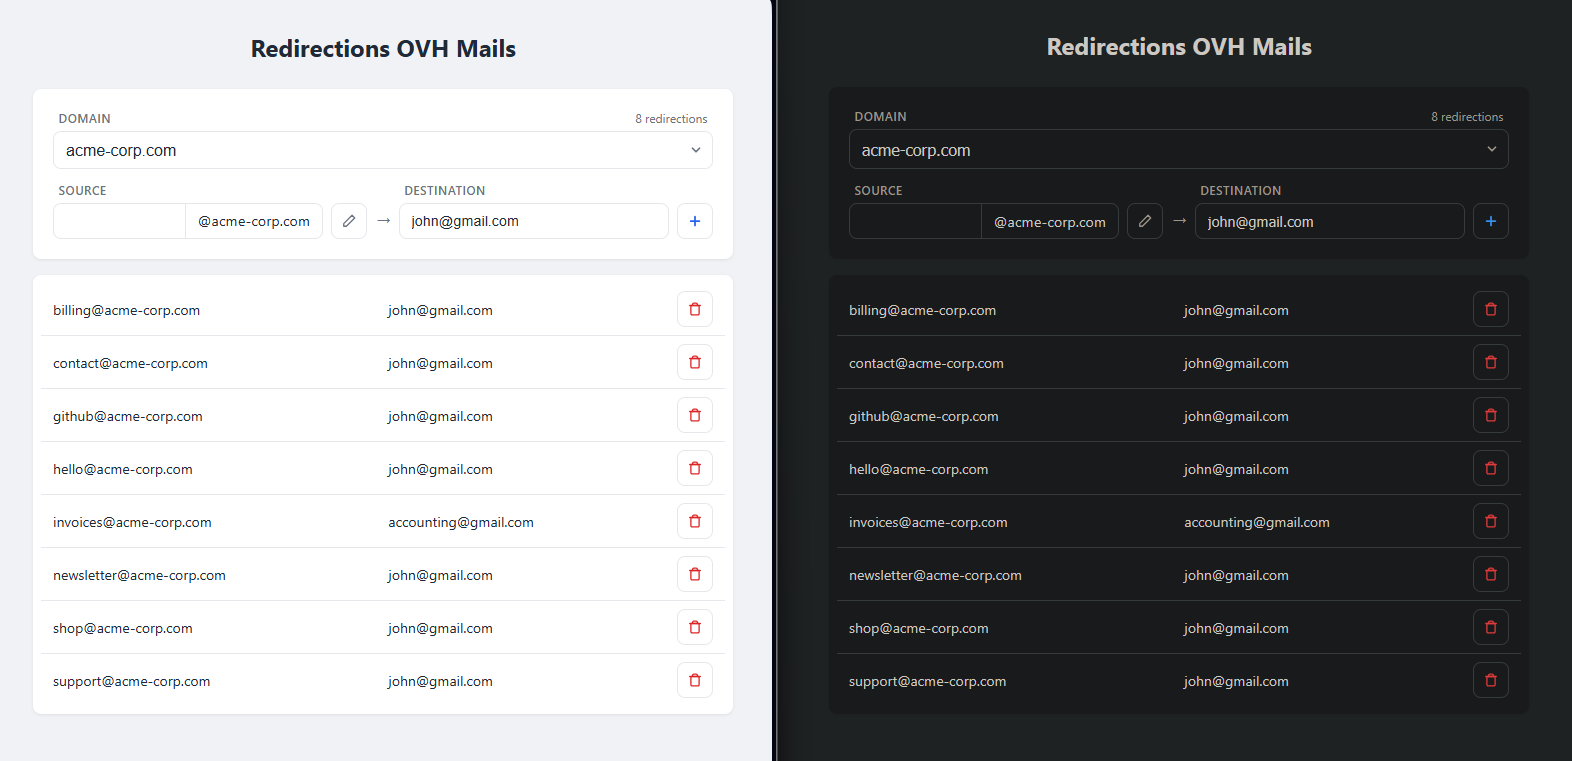
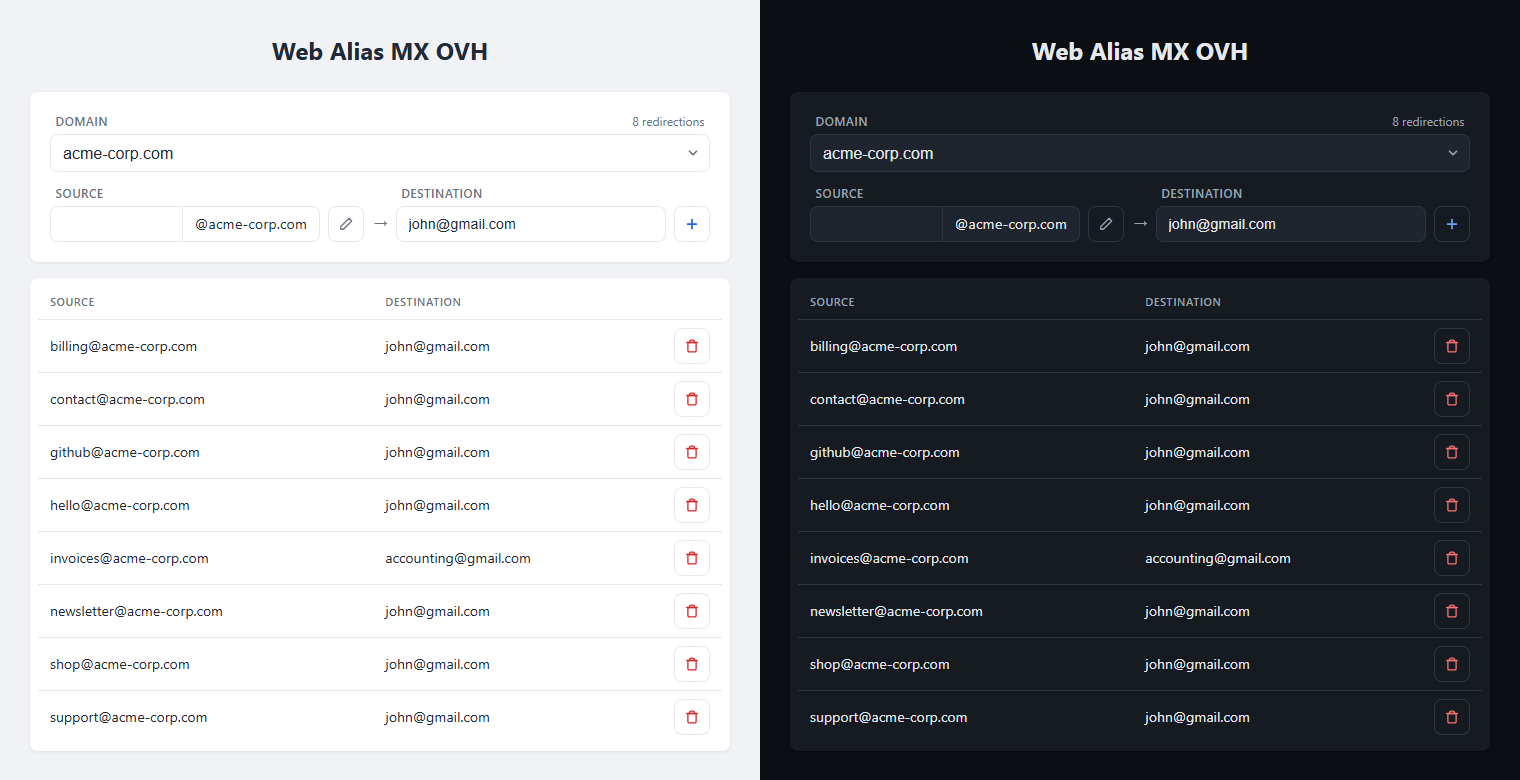
Tune the dark palette against the render and refresh the screenshot
Looking at the first pass, the cards barely separated from the page and the
icon buttons read as filled chips because they kept the input background.
Deepen the page background, lift the card and let the buttons sit transparent
on whatever surface holds them.

The screenshot now shows the built-in themes side by side instead of an
extension-generated dark mode.

diff --git a/style.css b/style.css
@@ -1,6 +1,6 @@
 :root { --shadow: 0 1px 3px rgba(0,0,0,.08); --bg: #f0f2f5; --card: #fff; --input-bg: #fff; --primary: #2563eb; --danger: #dc2626; --text: #1f2937; --muted: #6b7280; --border: #e5e7eb; --radius: 8px; --hover-row: #f9fafb; --toggle-active-bg: #eff6ff; --msg-ok-bg: #ecfdf5; --msg-ok-text: #065f46; --msg-ok-border: #a7f3d0; --msg-err-bg: #fef2f2; --msg-err-text: #991b1b; --msg-err-border: #fecaca; }
 @media (prefers-color-scheme: dark) {
-  :root { --shadow: 0 1px 3px rgba(0,0,0,.5); --bg: #0f1419; --card: #171c22; --input-bg: #1e242c; --primary: #60a5fa; --danger: #f87171; --text: #e6e8eb; --muted: #9aa4b2; --border: #2b323b; --hover-row: #1e242c; --toggle-active-bg: #1b2b45; --msg-ok-bg: #0c2f24; --msg-ok-text: #6ee7b7; --msg-ok-border: #14543f; --msg-err-bg: #3a1417; --msg-err-text: #fca5a5; --msg-err-border: #7f2226; }
+  :root { --shadow: 0 1px 3px rgba(0,0,0,.5); --bg: #0b0f14; --card: #161b22; --input-bg: #1f252e; --primary: #60a5fa; --danger: #f87171; --text: #e6e8eb; --muted: #9aa4b2; --border: #2d3540; --hover-row: #1c222a; --toggle-active-bg: #1b2b45; --msg-ok-bg: #0c2f24; --msg-ok-text: #6ee7b7; --msg-ok-border: #14543f; --msg-err-bg: #3a1417; --msg-err-text: #fca5a5; --msg-err-border: #7f2226; }
 }
 * { margin: 0; padding: 0; box-sizing: border-box; }
 body { font-family: -apple-system, BlinkMacSystemFont, 'Segoe UI', Roboto, sans-serif; background: var(--bg); color: var(--text); line-height: 1.5; padding: 2rem 1rem; color-scheme: light dark; }
@@ -32,7 +32,7 @@ select:focus-visible, input:focus-visible, button:focus-visible { outline: 2px s
 .form-row .field-grow { margin-bottom: 0; }
 .form-row .arrow { color: var(--muted); font-size: 1.1rem; flex-shrink: 0; padding-bottom: .45rem; }
 button { border: none; border-radius: var(--radius); font-size: .875rem; font-weight: 500; cursor: pointer; transition: background-color .15s, border-color .15s, color .15s; }
-.btn-square { display: inline-flex; align-items: center; justify-content: center; width: 36px; height: 36px; flex-shrink: 0; border: 1px solid var(--border); background: var(--input-bg); color: var(--muted); padding: 0; }
+.btn-square { display: inline-flex; align-items: center; justify-content: center; width: 36px; height: 36px; flex-shrink: 0; border: 1px solid var(--border); background: transparent; color: var(--muted); padding: 0; }
 .btn-square svg { width: 14px; height: 14px; }
 .btn-square:hover { border-color: currentColor; }
 .btn-square:disabled { opacity: .4; cursor: not-allowed; }
